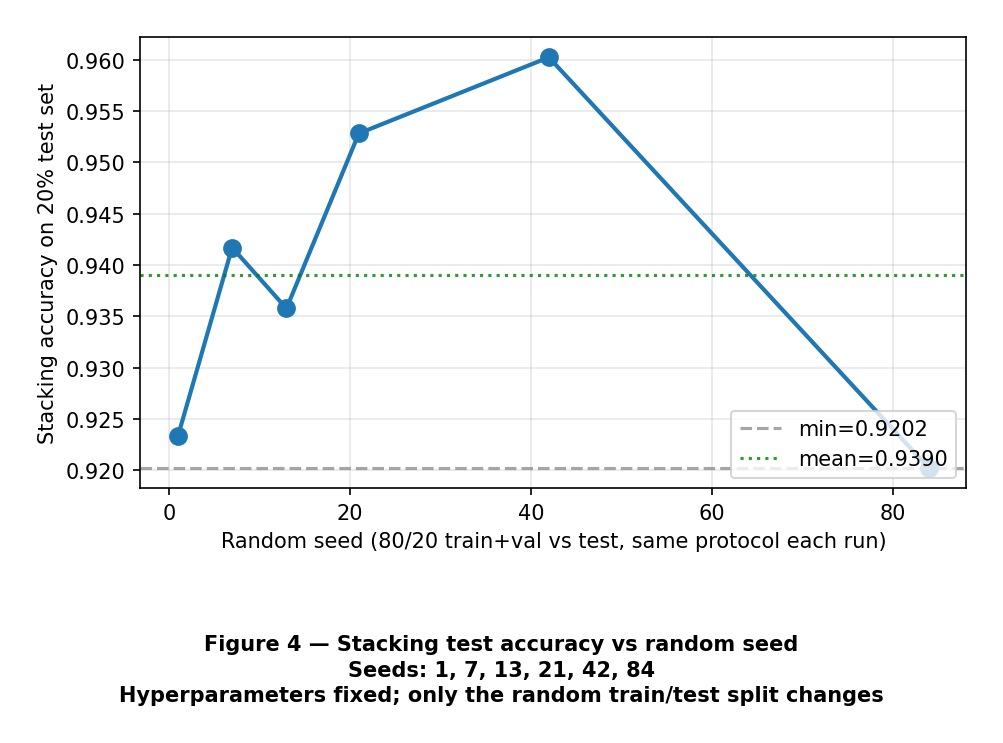
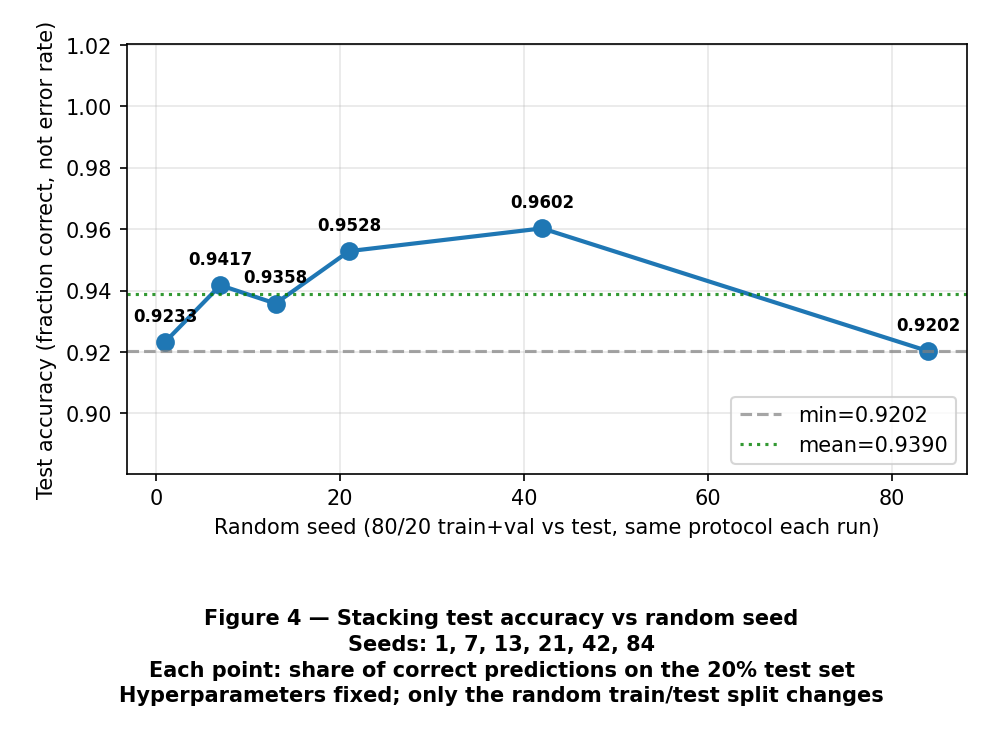
plots fig4: clarify y-axis is correct rate; annotate each point with accuracy
Made-with: Cursor

diff --git a/report_figures.py b/report_figures.py
@@ -23,7 +23,7 @@ Usage (repository root, ``training_data.csv`` present)::
     True class Starry Night: distribution of predicted labels on the test set.
 
 ``plots/04_partition_seed_sensitivity.png``
-    Stacking test accuracy vs random seed for the train/test split (same 80/20 protocol).
+    Stacking **test accuracy** (fraction correct) vs random seed; numeric label on each point.
 
 ``plots/05_appendix_model_compare_min_mean_max.csv``
     Min/mean/max table; ``--appendix`` adds extra rows and ``05_appendix_model_compare.png``.
@@ -46,7 +46,7 @@ PLOT_DIR = Path(__file__).resolve().parent / "plots"
 
 def _figure_label_below(fig, lines: tuple[str, ...]) -> None:
     """Multi-line figure title under the axes (reserve bottom margin first)."""
-    fig.tight_layout(rect=[0, 0.20, 1, 0.98])
+    fig.tight_layout(rect=[0, 0.22, 1, 0.98])
     fig.text(
         0.5,
         0.02,
@@ -187,11 +187,24 @@ def figure_starry_night_errors(r: dict, path: Path, split_seed: int) -> None:
 
 def figure_stability_seeds(rows: list[tuple[int, float]], path: Path) -> None:
     seeds, accs = zip(*rows)
+    seeds = list(seeds)
+    accs = list(accs)
     fig, ax = plt.subplots(figsize=(6.5, 4.8))
     ax.plot(seeds, accs, "o-", linewidth=2, markersize=8)
     ax.set_xlabel("Random seed (80/20 train+val vs test, same protocol each run)")
-    ax.set_ylabel("Stacking accuracy on 20% test set")
+    ax.set_ylabel("Test accuracy (fraction correct, not error rate)")
+    ax.set_ylim(min(accs) - 0.04, max(accs) + 0.06)
     ax.grid(True, alpha=0.3)
+    for sd, acc in zip(seeds, accs):
+        ax.annotate(
+            f"{acc:.4f}",
+            (sd, acc),
+            textcoords="offset points",
+            xytext=(0, 10),
+            ha="center",
+            fontsize=8,
+            fontweight="bold",
+        )
     m = min(accs)
     ax.axhline(m, color="gray", linestyle="--", alpha=0.7, label=f"min={m:.4f}")
     ax.axhline(np.mean(accs), color="green", linestyle=":", alpha=0.8, label=f"mean={np.mean(accs):.4f}")
@@ -202,6 +215,7 @@ def figure_stability_seeds(rows: list[tuple[int, float]], path: Path) -> None:
         (
             "Figure 4 — Stacking test accuracy vs random seed",
             f"Seeds: {seed_list}",
+            "Each point: share of correct predictions on the 20% test set",
             "Hyperparameters fixed; only the random train/test split changes",
         ),
     )

diff --git a/plots/README.md b/plots/README.md
@@ -7,7 +7,7 @@ Generated by `python report_figures.py` from the repository root. Each PNG has a
 | `01_model_compare_test.png` | Test accuracy and macro-F1 for LR, NB, RF, majority vote, stacking. |
 | `02_confusion_matrix_stacking.png` | Confusion matrix for stacking on the test set. |
 | `03_errors_true_starry_night.png` | Distribution of predictions when true class is *The Starry Night*. |
-| `04_partition_seed_sensitivity.png` | Stacking test accuracy vs six RNG seeds for shuffling persons before 80/20 split. |
+| `04_partition_seed_sensitivity.png` | Test accuracy (fraction **correct**) vs six random seeds; value printed at each point. |
 | `05_appendix_model_compare_min_mean_max.csv` | Numeric min/mean/max (model A; add B/C with `--appendix`). |
 | `05_appendix_model_compare.png` | (Optional) Bar chart of min/mean/max if you run with `--appendix`. |
 
